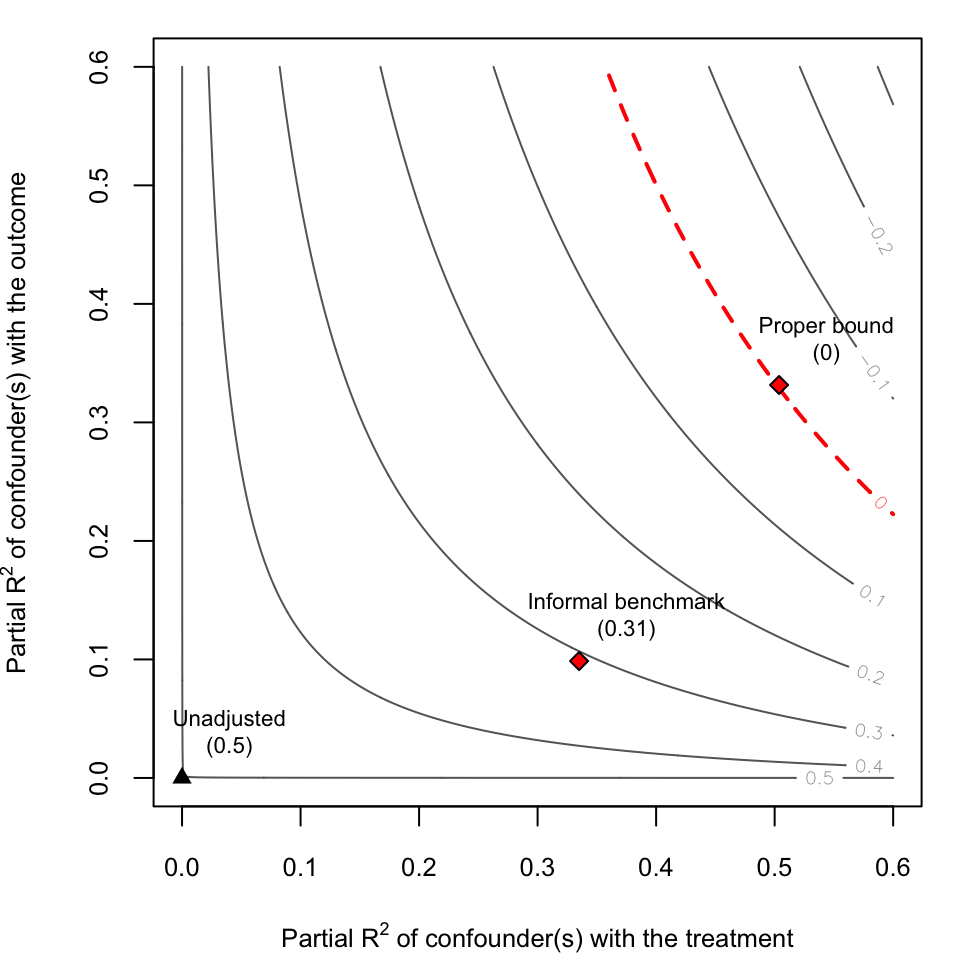
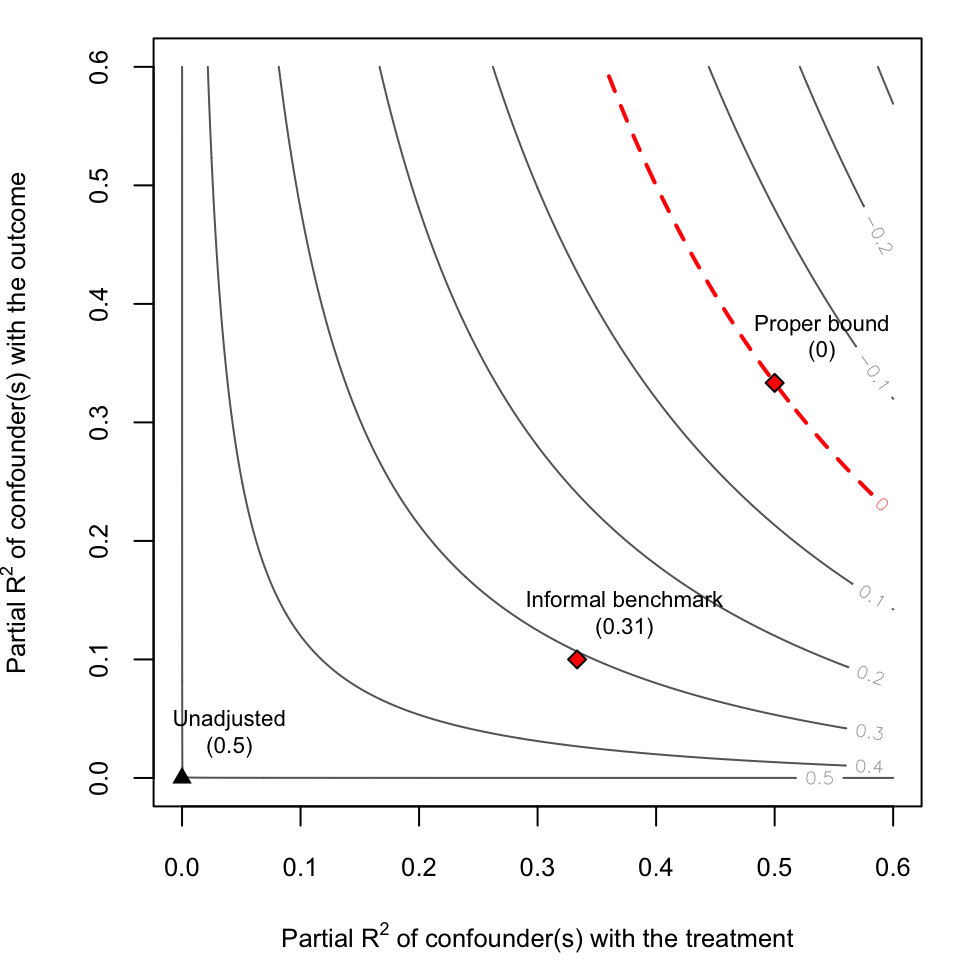
- exact finite sample simulation

diff --git a/docs/articles/informal_benchmarking.html b/docs/articles/informal_benchmarking.html
@@ -101,24 +101,28 @@
 <div id="simulating-the-data" class="section level2">
 <h2 class="hasAnchor">
 <a href="#simulating-the-data" class="anchor"></a>Simulating the data</h2>
-<p>Let us begin by simulating the data generating process used in our example. Consider a treatment variable <span class="math inline">\(D\)</span>, an outcome variable <span class="math inline">\(Y\)</span>, one observed confounder <span class="math inline">\(X\)</span>, and one <em>unobserved</em> confounder <span class="math inline">\(Z\)</span>. Again, all disturbance variables <span class="math inline">\(U\)</span> are mutually independent and note that, in reality, the treatment <span class="math inline">\(D\)</span> has <em>no causal effect</em> on the outcome <span class="math inline">\(Y\)</span>.</p>
+<p>Let us begin by simulating the data generating process used in our example. Consider a treatment variable <span class="math inline">\(D\)</span>, an outcome variable <span class="math inline">\(Y\)</span>, one observed confounder <span class="math inline">\(X\)</span>, and one <em>unobserved</em> confounder <span class="math inline">\(Z\)</span>. Again, all disturbance variables <span class="math inline">\(U\)</span> standardized mutually independent gaussians, and note that, in reality, the treatment <span class="math inline">\(D\)</span> has <em>no causal effect</em> on the outcome <span class="math inline">\(Y\)</span>.</p>
 <p><span class="math display">\[\begin{align}
 Z &amp;= U_{z}\\
 X &amp;= U_{x}\\
 D &amp;= X + Z + U_d\\
 Y &amp;= X + Z + U_y
 \end{align}\]</span></p>
-<p>Also note that, in this model: (i) the unobserved confounder <span class="math inline">\(Z\)</span> is independent of <span class="math inline">\(X\)</span>; and, (ii) the unobserved confounder <span class="math inline">\(Z\)</span> is <em>exactly like</em> <span class="math inline">\(X\)</span> in terms of its strength of association with the treatment and the outcome. The code below creates a sample of size 10,000 of this data generating process.</p>
-<div class="sourceCode" id="cb1"><pre class="sourceCode r"><code class="sourceCode r"><a class="sourceLine" id="cb1-1" data-line-number="1"><span class="co"># sets seed for reproducibility</span></a>
-<a class="sourceLine" id="cb1-2" data-line-number="2"><span class="kw"><a href="https://rdrr.io/r/base/Random.html">set.seed</a></span>(<span class="dv">12345</span>)</a>
-<a class="sourceLine" id="cb1-3" data-line-number="3"></a>
-<a class="sourceLine" id="cb1-4" data-line-number="4"><span class="co"># simulates data</span></a>
-<a class="sourceLine" id="cb1-5" data-line-number="5">n &lt;-<span class="st"> </span><span class="fl">1e5</span></a>
-<a class="sourceLine" id="cb1-6" data-line-number="6">Z &lt;-<span class="st"> </span><span class="kw"><a href="https://rdrr.io/r/stats/Normal.html">rnorm</a></span>(n)</a>
-<a class="sourceLine" id="cb1-7" data-line-number="7">X &lt;-<span class="st"> </span><span class="kw"><a href="https://rdrr.io/r/stats/Normal.html">rnorm</a></span>(n)</a>
-<a class="sourceLine" id="cb1-8" data-line-number="8">Z &lt;-<span class="st"> </span><span class="kw"><a href="https://rdrr.io/r/stats/residuals.html">resid</a></span>(<span class="kw"><a href="https://rdrr.io/r/stats/lm.html">lm</a></span>(Z <span class="op">~</span><span class="st"> </span>X)) <span class="co"># makes sure that Z is ortogonal to X</span></a>
-<a class="sourceLine" id="cb1-9" data-line-number="9">D &lt;-<span class="st"> </span>X <span class="op">+</span><span class="st"> </span>Z <span class="op">+</span><span class="st"> </span><span class="kw"><a href="https://rdrr.io/r/stats/Normal.html">rnorm</a></span>(n)</a>
-<a class="sourceLine" id="cb1-10" data-line-number="10">Y &lt;-<span class="st"> </span>X <span class="op">+</span><span class="st"> </span>Z <span class="op">+</span><span class="st"> </span><span class="kw"><a href="https://rdrr.io/r/stats/Normal.html">rnorm</a></span>(n)</a></code></pre></div>
+<p>Also note that, in this model: (i) the unobserved confounder <span class="math inline">\(Z\)</span> is independent of <span class="math inline">\(X\)</span>; and, (ii) the unobserved confounder <span class="math inline">\(Z\)</span> is <em>exactly like</em> <span class="math inline">\(X\)</span> in terms of its strength of association with the treatment and the outcome. The code below creates a sample of size 100 of this data generating process. We make sure to create residuals that are standardized and orthogonal so that all properties that we describe here will hold exactly even in this finite sample.</p>
+<div class="sourceCode" id="cb1"><pre class="sourceCode r"><code class="sourceCode r"><a class="sourceLine" id="cb1-1" data-line-number="1"><span class="co"># function for orthogonalizing and</span></a>
+<a class="sourceLine" id="cb1-2" data-line-number="2"><span class="co"># standardizing residuals</span></a>
+<a class="sourceLine" id="cb1-3" data-line-number="3">resid_maker &lt;-<span class="st"> </span><span class="cf">function</span>(n, C){</a>
+<a class="sourceLine" id="cb1-4" data-line-number="4">  e &lt;-<span class="st"> </span><span class="kw"><a href="https://rdrr.io/r/stats/residuals.html">resid</a></span>(<span class="kw"><a href="https://rdrr.io/r/stats/lm.html">lm</a></span>(<span class="kw"><a href="https://rdrr.io/r/stats/Normal.html">rnorm</a></span>(n) <span class="op">~</span><span class="st"> </span>C))</a>
+<a class="sourceLine" id="cb1-5" data-line-number="5">  e  &lt;-<span class="st"> </span><span class="kw"><a href="https://rdrr.io/r/base/c.html">c</a></span>(<span class="kw"><a href="https://rdrr.io/r/base/scale.html">scale</a></span>(e))</a>
+<a class="sourceLine" id="cb1-6" data-line-number="6">  <span class="kw"><a href="https://rdrr.io/r/base/function.html">return</a></span>(e)</a>
+<a class="sourceLine" id="cb1-7" data-line-number="7">}</a>
+<a class="sourceLine" id="cb1-8" data-line-number="8"></a>
+<a class="sourceLine" id="cb1-9" data-line-number="9"><span class="co"># simulates data</span></a>
+<a class="sourceLine" id="cb1-10" data-line-number="10">n &lt;-<span class="st"> </span><span class="dv">100</span></a>
+<a class="sourceLine" id="cb1-11" data-line-number="11">X &lt;-<span class="st"> </span><span class="kw"><a href="https://rdrr.io/r/base/scale.html">scale</a></span>(<span class="kw"><a href="https://rdrr.io/r/stats/Normal.html">rnorm</a></span>(n))</a>
+<a class="sourceLine" id="cb1-12" data-line-number="12">Z &lt;-<span class="st"> </span><span class="kw">resid_maker</span>(n, X) </a>
+<a class="sourceLine" id="cb1-13" data-line-number="13">D &lt;-<span class="st"> </span>X <span class="op">+</span><span class="st"> </span>Z <span class="op">+</span><span class="st"> </span><span class="kw">resid_maker</span>(n, <span class="kw"><a href="https://rdrr.io/r/base/cbind.html">cbind</a></span>(X, Z)) </a>
+<a class="sourceLine" id="cb1-14" data-line-number="14">Y &lt;-<span class="st"> </span>X <span class="op">+</span><span class="st"> </span>Z <span class="op">+</span><span class="st"> </span><span class="kw">resid_maker</span>(n, <span class="kw"><a href="https://rdrr.io/r/base/cbind.html">cbind</a></span>(X, Z, D))</a></code></pre></div>
 </div>
 <div id="fitting-the-model" class="section level2">
 <h2 class="hasAnchor">
@@ -132,19 +136,19 @@ Y &amp;= X + Z + U_y
 <a class="sourceLine" id="cb2-6" data-line-number="6"><span class="co">#&gt; </span></a>
 <a class="sourceLine" id="cb2-7" data-line-number="7"><span class="co">#&gt; Residuals:</span></a>
 <a class="sourceLine" id="cb2-8" data-line-number="8"><span class="co">#&gt;     Min      1Q  Median      3Q     Max </span></a>
-<a class="sourceLine" id="cb2-9" data-line-number="9"><span class="co">#&gt; -5.2889 -0.8314  0.0017  0.8287  5.2918 </span></a>
+<a class="sourceLine" id="cb2-9" data-line-number="9"><span class="co">#&gt; -4.0201 -0.7781 -0.0533  0.7752  2.7160 </span></a>
 <a class="sourceLine" id="cb2-10" data-line-number="10"><span class="co">#&gt; </span></a>
 <a class="sourceLine" id="cb2-11" data-line-number="11"><span class="co">#&gt; Coefficients:</span></a>
-<a class="sourceLine" id="cb2-12" data-line-number="12"><span class="co">#&gt;              Estimate Std. Error t value Pr(&gt;|t|)    </span></a>
-<a class="sourceLine" id="cb2-13" data-line-number="13"><span class="co">#&gt; (Intercept) -0.006058   0.003883   -1.56    0.119    </span></a>
-<a class="sourceLine" id="cb2-14" data-line-number="14"><span class="co">#&gt; D            0.501434   0.002745  182.69   &lt;2e-16 ***</span></a>
-<a class="sourceLine" id="cb2-15" data-line-number="15"><span class="co">#&gt; X            0.497381   0.004755  104.60   &lt;2e-16 ***</span></a>
+<a class="sourceLine" id="cb2-12" data-line-number="12"><span class="co">#&gt;               Estimate Std. Error t value Pr(&gt;|t|)    </span></a>
+<a class="sourceLine" id="cb2-13" data-line-number="13"><span class="co">#&gt; (Intercept) -2.637e-17  1.237e-01   0.000  1.00000    </span></a>
+<a class="sourceLine" id="cb2-14" data-line-number="14"><span class="co">#&gt; D            5.000e-01  8.793e-02   5.686 1.37e-07 ***</span></a>
+<a class="sourceLine" id="cb2-15" data-line-number="15"><span class="co">#&gt; X            5.000e-01  1.523e-01   3.283  0.00143 ** </span></a>
 <a class="sourceLine" id="cb2-16" data-line-number="16"><span class="co">#&gt; ---</span></a>
 <a class="sourceLine" id="cb2-17" data-line-number="17"><span class="co">#&gt; Signif. codes:  0 '***' 0.001 '**' 0.01 '*' 0.05 '.' 0.1 ' ' 1</span></a>
 <a class="sourceLine" id="cb2-18" data-line-number="18"><span class="co">#&gt; </span></a>
-<a class="sourceLine" id="cb2-19" data-line-number="19"><span class="co">#&gt; Residual standard error: 1.228 on 99997 degrees of freedom</span></a>
-<a class="sourceLine" id="cb2-20" data-line-number="20"><span class="co">#&gt; Multiple R-squared:  0.4998, Adjusted R-squared:  0.4998 </span></a>
-<a class="sourceLine" id="cb2-21" data-line-number="21"><span class="co">#&gt; F-statistic: 4.995e+04 on 2 and 99997 DF,  p-value: &lt; 2.2e-16</span></a></code></pre></div>
+<a class="sourceLine" id="cb2-19" data-line-number="19"><span class="co">#&gt; Residual standard error: 1.237 on 97 degrees of freedom</span></a>
+<a class="sourceLine" id="cb2-20" data-line-number="20"><span class="co">#&gt; Multiple R-squared:    0.5,  Adjusted R-squared:  0.4897 </span></a>
+<a class="sourceLine" id="cb2-21" data-line-number="21"><span class="co">#&gt; F-statistic:  48.5 on 2 and 97 DF,  p-value: 2.512e-15</span></a></code></pre></div>
 <p>Note we obtain a large and statistically significant coefficient estimate of the effect of <span class="math inline">\(X\)</span> on <span class="math inline">\(Y\)</span> (<span class="math inline">\(0.5\)</span>). However, we know that the variable <span class="math inline">\(Z\)</span> is not observed, and there is the fear that this estimated effect is in fact due to the bias caused by <span class="math inline">\(Z\)</span>. On the other hand, let us suppose the investigator correctly know that: (i) <span class="math inline">\(Z\)</span> and <span class="math inline">\(X\)</span> have the same strength of association with <span class="math inline">\(D\)</span> and <span class="math inline">\(Y\)</span>; and, (ii) <span class="math inline">\(Z\)</span> is independent of <span class="math inline">\(X\)</span>. Can we leverage this information to undersand how much bias a confounder <span class="math inline">\(Z\)</span> “not unlike” <span class="math inline">\(X\)</span> could cause?</p>
 </div>
 <div id="informal-benchmarks" class="section level2">
